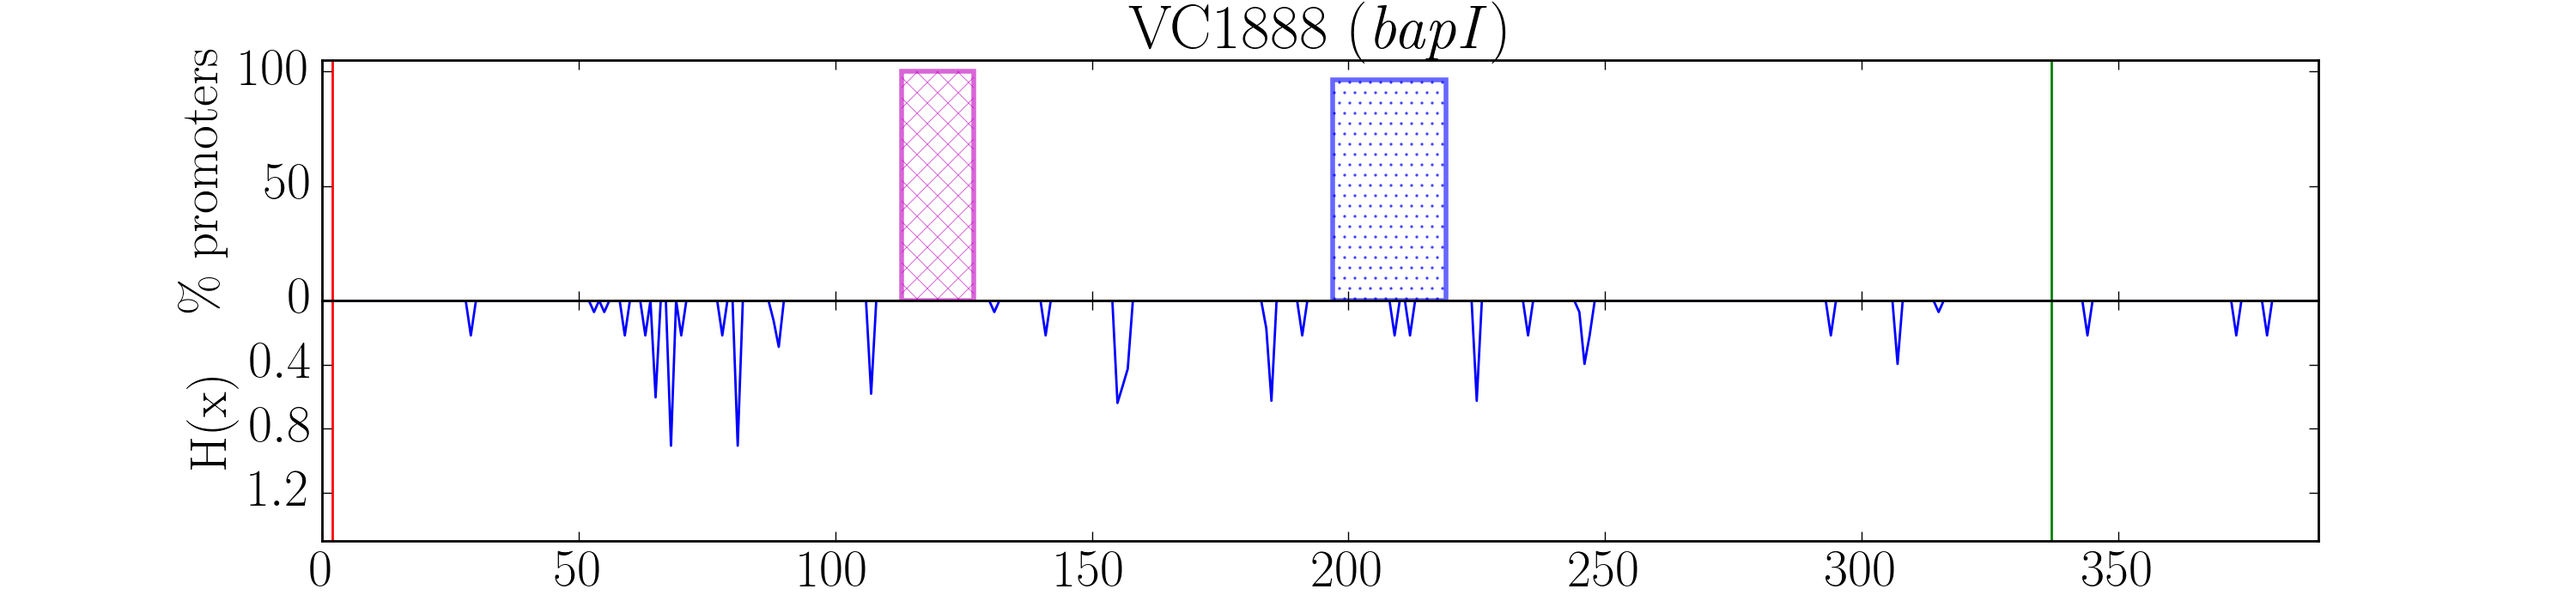
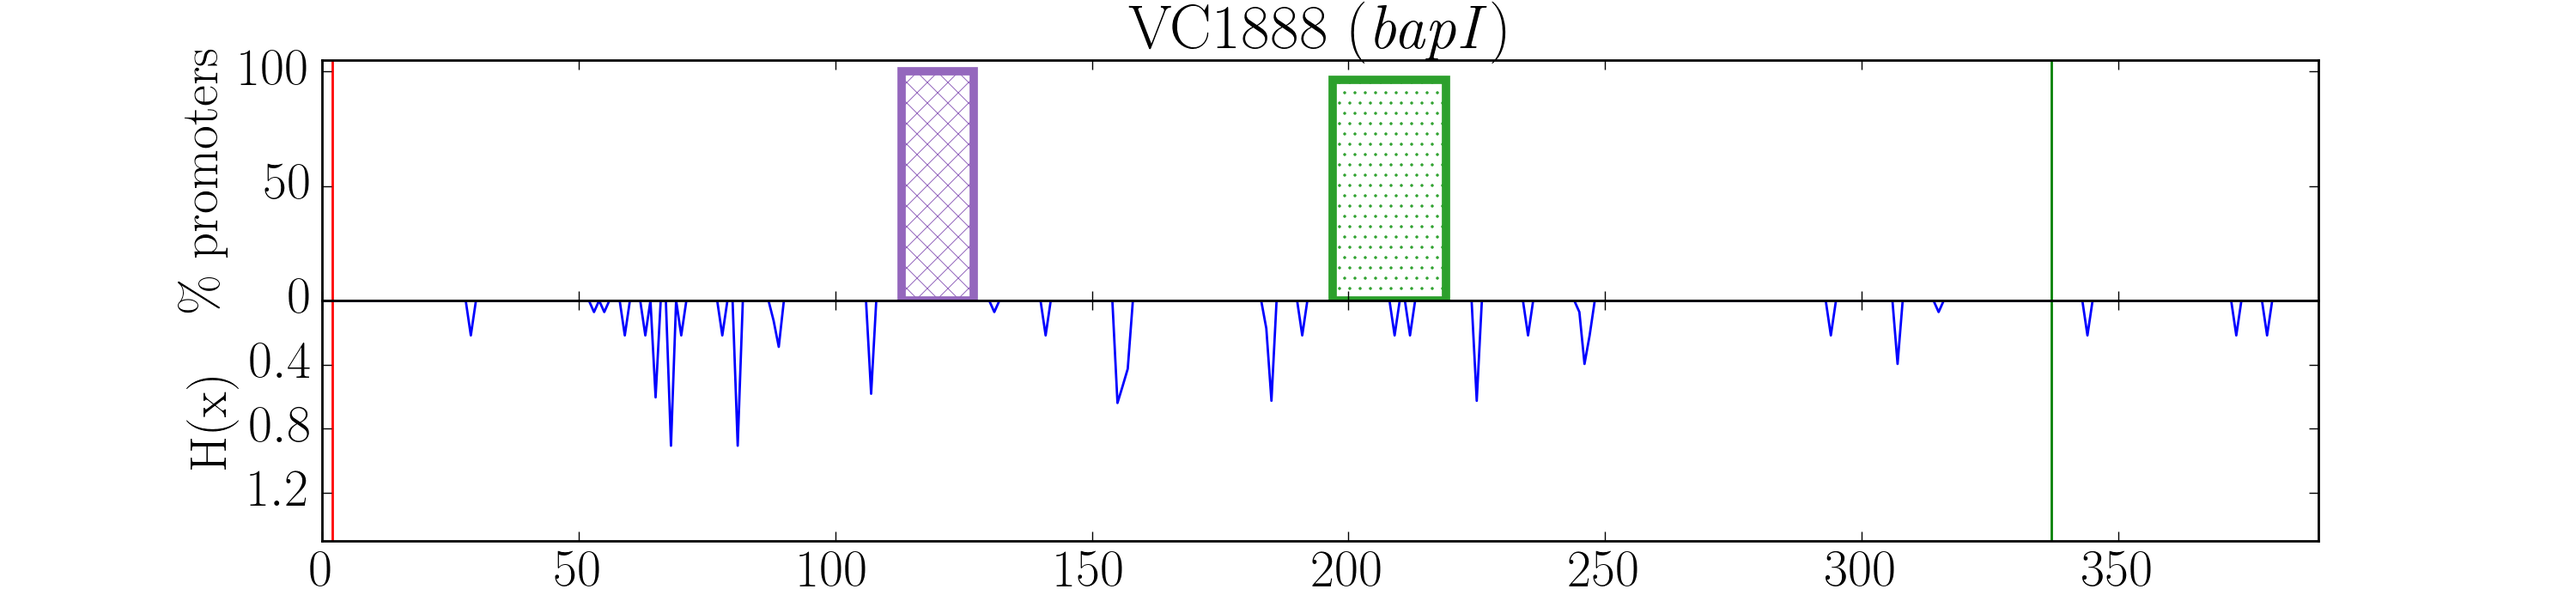
plots updated

Changed region(s): [[0.496, 0.12, 0.589, 0.51], [0.341, 0.09, 0.403, 0.51]]

diff --git a/analysis.py b/analysis.py
@@ -388,7 +388,18 @@ def pssm_search_all(aln):
     return scores
 
 def get_color_patterns():
-    colors = "rgbcmyk"
+
+
+    colors = [(31, 119, 180), (255, 127, 14), (44, 160, 44), (214, 39, 40),
+              (148, 103, 189), (140, 86, 75), (188, 189, 34),  (227, 119, 194),
+              (23, 190, 207)]
+    # Scale the RGB values to the [0, 1] range, which is the format matplotlib accepts.
+    for i in range(len(colors)):
+        r, g, b = colors[i]
+        colors[i] = (r / 255., g / 255., b / 255.)
+
+    #colors = "rgbcmyk"
+
     patterns = ('/', '\\', '.', 'o', 'x', '-')
     col_pats = zip(colors, patterns)
     color_pattern_dict = {}
@@ -409,9 +420,10 @@ def plot_legend_only(horizontal=False):
         figlegend = pylab.figure(figsize=(2, 5))
     ax = fig.add_subplot(111)
     for tf, (acolor, apattern) in color_patterns.items():
-        rect = pylab.Rectangle((0, 0), 10, 10, alpha=0.6,
+        rect = pylab.Rectangle((0, 0), 10, 10, alpha=1,
                                edgecolor=acolor, hatch=apattern,
-                               facecolor='w',label=tf)
+                               facecolor='w',label=tf,
+                               linewidth=3.5)
         ax.add_patch(rect)
     handles, labels = ax.get_legend_handles_labels()
     legend_dict = dict((l, h) for h, l in zip(handles, labels))
@@ -474,10 +486,10 @@ def plot(aln, scores, show=False):
         acolor, apattern = get_color_patterns()[tf]
         for start_pos in scores[tf]:
             conservation = len(scores[tf][start_pos]) / float(len(aln)) * 100
-            rect = pylab.Rectangle((start_pos, 0), mlen, conservation, alpha=0.6,
-                                   edgecolor=acolor, hatch=apattern, label=tf,
-                                   facecolor='w',
-                                   linewidth=2)
+            rect = pylab.Rectangle((start_pos, 0), mlen, conservation, alpha=1,
+                                   edgecolor=acolor, label=tf,
+                                   facecolor='none',  hatch=apattern,
+                                   linewidth=3.5)
             ax1.add_patch(rect)
 
             # remove redundant legends
